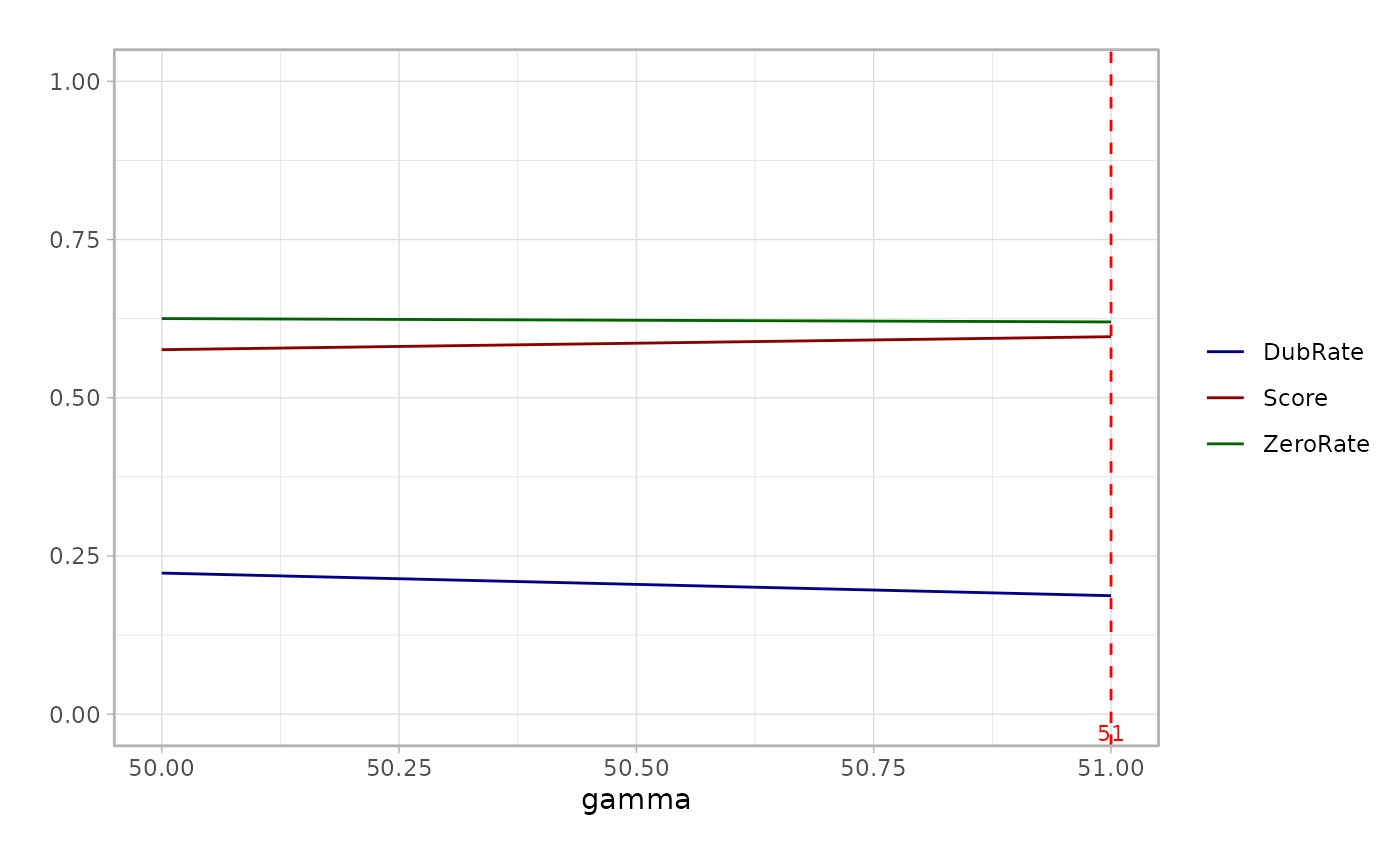
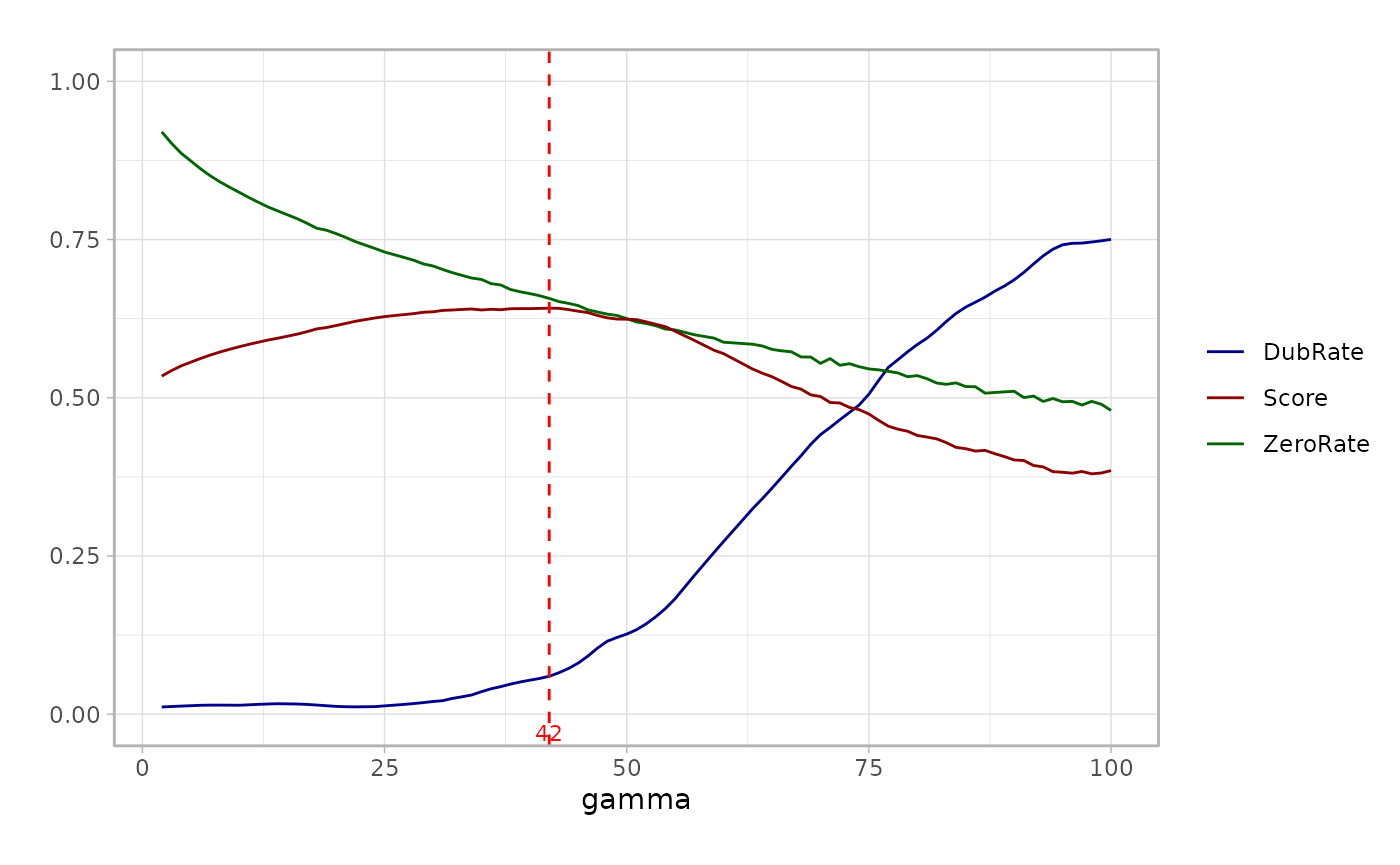
Deploying to gh-pages from @ JSB-UCLA/mcRigor@9963490745b8a02b5c7d042b25420d82449c25fb 🚀

diff --git a/articles/mcRigor-optimize.html b/articles/mcRigor-optimize.html
@@ -34,6 +34,7 @@
   <button class="nav-link dropdown-toggle" type="button" id="dropdown-articles" data-bs-toggle="dropdown" aria-expanded="false" aria-haspopup="true">Articles</button>
   <ul class="dropdown-menu" aria-labelledby="dropdown-articles">
 <li><a class="dropdown-item" href="../articles/mcRigor-detect-dubmc.html">Functionality 1: detect dubious metacells for a given metacell partition</a></li>
+    <li><a class="dropdown-item" href="../articles/mcRigor-mc-method.html">Implementing metacell partitioning methods</a></li>
     <li><a class="dropdown-item" href="../articles/mcRigor-optimize.html">Functionality 2: optimize metacell partitioning</a></li>
   </ul>
 </li>
@@ -75,8 +76,9 @@
 <h2 id="introduction">Introduction<a class="anchor" aria-label="anchor" href="#introduction"></a>
 </h2>
 <p>In this tutorial, we will show how to use mcRigor to evaluate each
-metacell partition and select the optimal granularity level for a
-specific metacell partitioning method. Note that granularity level,
+metacell partition and select the <strong>optimal granularity
+level</strong> for a specific metacell partitioning method. Note that
+granularity level,
 <math display="inline" xmlns="http://www.w3.org/1998/Math/MathML"><semantics><mi>γ</mi><annotation encoding="application/x-tex">\gamma</annotation></semantics></math>,
 is a key parameter for metacell partitioning defined as the ratio of the
 number of single cells to the number of metacells, and decent selection
@@ -140,15 +142,19 @@ mcRigor package as an example.</p>
 metacell partition in <code>cell_membership</code> and select the
 optimal one among them.</p>
 <div class="sourceCode" id="cb4"><pre class="downlit sourceCode r">
-<code class="sourceCode R"><span><span class="va">optimize_res</span> <span class="op">=</span> <span class="fu"><a href="../reference/mcRigor_OPTIMIZE.html">mcRigor_OPTIMIZE</a></span><span class="op">(</span>obj_singlecell <span class="op">=</span> <span class="va">obj_singlecell</span>, cell_membership <span class="op">=</span> <span class="va">cell_membership</span><span class="op">[</span><span class="fu"><a href="https://rdrr.io/r/base/character.html" class="external-link">as.character</a></span><span class="op">(</span><span class="fu"><a href="https://rdrr.io/r/base/c.html" class="external-link">c</a></span><span class="op">(</span><span class="fl">50</span><span class="op">:</span><span class="fl">51</span><span class="op">)</span><span class="op">)</span><span class="op">]</span><span class="op">)</span></span></code></pre></div>
+<code class="sourceCode R"><span><span class="va">optimize_res</span> <span class="op">=</span> <span class="fu"><a href="../reference/mcRigor_OPTIMIZE.html">mcRigor_OPTIMIZE</a></span><span class="op">(</span>obj_singlecell <span class="op">=</span> <span class="va">obj_singlecell</span>, cell_membership <span class="op">=</span> <span class="va">cell_membership</span><span class="op">)</span></span></code></pre></div>
 <p>The evaluation scores for the provided metacell partitions are stored
 in the <code>score</code> field of the output <code>optimize_res</code>,
 and we can draw the line plot of the evaluation scores.</p>
 <div class="sourceCode" id="cb5"><pre class="downlit sourceCode r">
 <code class="sourceCode R"><span><span class="fu"><a href="https://rdrr.io/r/utils/head.html" class="external-link">head</a></span><span class="op">(</span><span class="va">optimize_res</span><span class="op">$</span><span class="va">scores</span><span class="op">)</span></span>
-<span><span class="co">#&gt;   gamma   DubRate  ZeroRate     Score</span></span>
-<span><span class="co">#&gt; 1    50 0.2229851 0.6251194 0.5759478</span></span>
-<span><span class="co">#&gt; 2    51 0.1872388 0.6198080 0.5964766</span></span>
+<span><span class="co">#&gt;   gamma    DubRate  ZeroRate     Score</span></span>
+<span><span class="co">#&gt; 1     2 0.01137782 0.9201214 0.5342504</span></span>
+<span><span class="co">#&gt; 2     3 0.01211045 0.9021871 0.5428512</span></span>
+<span><span class="co">#&gt; 3     4 0.01278217 0.8864460 0.5503859</span></span>
+<span><span class="co">#&gt; 4     6 0.01406138 0.8618650 0.5620368</span></span>
+<span><span class="co">#&gt; 5     7 0.01430996 0.8507913 0.5674494</span></span>
+<span><span class="co">#&gt; 6     8 0.01433865 0.8412219 0.5722197</span></span>
 <span><span class="va">optimize_res</span><span class="op">$</span><span class="va">optim_plot</span></span></code></pre></div>
 <p><img src="mcRigor-optimize_files/figure-html/unnamed-chunk-5-1.png" width="700">
 The output <code>optimize_res</code> contains the optimal granularity
@@ -160,7 +166,7 @@ under the the optimal granularity level (<code>opt_metacell</code>).</p>
 <code class="sourceCode R"><span><span class="va">opt_metacell</span> <span class="op">=</span> <span class="va">optimize_res</span><span class="op">$</span><span class="va">opt_metacell</span></span>
 <span><span class="va">opt_metacell</span></span>
 <span><span class="co">#&gt; An object of class Seurat </span></span>
-<span><span class="co">#&gt; 2000 features across 263 samples within 1 assay </span></span>
+<span><span class="co">#&gt; 2000 features across 319 samples within 1 assay </span></span>
 <span><span class="co">#&gt; Active assay: RNA (2000 features, 0 variable features)</span></span>
 <span><span class="co">#&gt;  2 layers present: counts, data</span></span></code></pre></div>
 <p>Note the optimal metacell partition may still contain dubious

diff --git a/articles/mcRigor-mc-method.html b/articles/mcRigor-mc-method.html
@@ -1,0 +1,94 @@
+<!DOCTYPE html>
+<!-- Generated by pkgdown: do not edit by hand --><html lang="en">
+<head>
+<meta http-equiv="Content-Type" content="text/html; charset=UTF-8">
+<meta charset="utf-8">
+<meta http-equiv="X-UA-Compatible" content="IE=edge">
+<meta name="viewport" content="width=device-width, initial-scale=1, shrink-to-fit=no">
+<title>Implementing metacell partitioning methods • mcRigor</title>
+<script src="../deps/jquery-3.6.0/jquery-3.6.0.min.js"></script><meta name="viewport" content="width=device-width, initial-scale=1, shrink-to-fit=no">
+<link href="../deps/bootstrap-5.3.1/bootstrap.min.css" rel="stylesheet">
+<script src="../deps/bootstrap-5.3.1/bootstrap.bundle.min.js"></script><link href="../deps/font-awesome-6.5.2/css/all.min.css" rel="stylesheet">
+<link href="../deps/font-awesome-6.5.2/css/v4-shims.min.css" rel="stylesheet">
+<script src="../deps/headroom-0.11.0/headroom.min.js"></script><script src="../deps/headroom-0.11.0/jQuery.headroom.min.js"></script><script src="../deps/bootstrap-toc-1.0.1/bootstrap-toc.min.js"></script><script src="../deps/clipboard.js-2.0.11/clipboard.min.js"></script><script src="../deps/search-1.0.0/autocomplete.jquery.min.js"></script><script src="../deps/search-1.0.0/fuse.min.js"></script><script src="../deps/search-1.0.0/mark.min.js"></script><!-- pkgdown --><script src="../pkgdown.js"></script><meta property="og:title" content="Implementing metacell partitioning methods">
+</head>
+<body>
+    <a href="#main" class="visually-hidden-focusable">Skip to contents</a>
+
+
+    <nav class="navbar navbar-expand-lg fixed-top bg-light" data-bs-theme="light" aria-label="Site navigation"><div class="container">
+
+    <a class="navbar-brand me-2" href="../index.html">mcRigor</a>
+
+    <small class="nav-text text-muted me-auto" data-bs-toggle="tooltip" data-bs-placement="bottom" title="">1.0</small>
+
+
+    <button class="navbar-toggler" type="button" data-bs-toggle="collapse" data-bs-target="#navbar" aria-controls="navbar" aria-expanded="false" aria-label="Toggle navigation">
+      <span class="navbar-toggler-icon"></span>
+    </button>
+
+    <div id="navbar" class="collapse navbar-collapse ms-3">
+      <ul class="navbar-nav me-auto">
+<li class="nav-item"><a class="nav-link" href="../reference/index.html">Reference</a></li>
+<li class="active nav-item dropdown">
+  <button class="nav-link dropdown-toggle" type="button" id="dropdown-articles" data-bs-toggle="dropdown" aria-expanded="false" aria-haspopup="true">Articles</button>
+  <ul class="dropdown-menu" aria-labelledby="dropdown-articles">
+<li><a class="dropdown-item" href="../articles/mcRigor-detect-dubmc.html">Functionality 1: detect dubious metacells for a given metacell partition</a></li>
+    <li><a class="dropdown-item" href="../articles/mcRigor-mc-method.html">Implementing metacell partitioning methods</a></li>
+    <li><a class="dropdown-item" href="../articles/mcRigor-optimize.html">Functionality 2: optimize metacell partitioning</a></li>
+  </ul>
+</li>
+      </ul>
+<ul class="navbar-nav">
+<li class="nav-item"><form class="form-inline" role="search">
+ <input class="form-control" type="search" name="search-input" id="search-input" autocomplete="off" aria-label="Search site" placeholder="Search for" data-search-index="../search.json">
+</form></li>
+      </ul>
+</div>
+
+
+  </div>
+</nav><div class="container template-article">
+
+
+
+
+<div class="row">
+  <main id="main" class="col-md-9"><div class="page-header">
+
+      <h1>Implementing metacell partitioning methods</h1>
+                        <h4 data-toc-skip class="author">Pan Liu</h4>
+            
+            <h4 data-toc-skip class="date">25 November 2024</h4>
+      
+
+      <div class="d-none name"><code>mcRigor-mc-method.Rmd</code></div>
+    </div>
+
+    
+    
+<p><strong>This page is under construction. Please check back
+soon!</strong></p>
+  </main><aside class="col-md-3"><nav id="toc" aria-label="Table of contents"><h2>On this page</h2>
+    </nav></aside>
+</div>
+
+
+
+    <footer><div class="pkgdown-footer-left">
+  <p>Developed by Pan Liu.</p>
+</div>
+
+<div class="pkgdown-footer-right">
+  <p>Site built with <a href="https://pkgdown.r-lib.org/" class="external-link">pkgdown</a> 2.1.1.</p>
+</div>
+
+    </footer>
+</div>
+
+
+
+
+
+  </body>
+</html>

diff --git a/index.html b/index.html
@@ -36,6 +36,7 @@
   <button class="nav-link dropdown-toggle" type="button" id="dropdown-articles" data-bs-toggle="dropdown" aria-expanded="false" aria-haspopup="true">Articles</button>
   <ul class="dropdown-menu" aria-labelledby="dropdown-articles">
 <li><a class="dropdown-item" href="articles/mcRigor-detect-dubmc.html">Functionality 1: detect dubious metacells for a given metacell partition</a></li>
+    <li><a class="dropdown-item" href="articles/mcRigor-mc-method.html">Implementing metacell partitioning methods</a></li>
     <li><a class="dropdown-item" href="articles/mcRigor-optimize.html">Functionality 2: optimize metacell partitioning</a></li>
   </ul>
 </li>
@@ -55,7 +56,7 @@
 <div class="page-header"><h1 id="mcrigor">mcRigor<a class="anchor" aria-label="anchor" href="#mcrigor"></a>
 </h1></div>
 <p>The R package <strong>mcRigor</strong> is a statistical method to enhance the rigor of metacell partitioning in single-cell data analysis. It can be used as an add-on for any existing metacell partitioning methods for obtaining more reliable metacells. mcRigor has two main functionalities: 1) detecting dubious metacells, which are composed of heterogeneous single cells, for a given metacell partition, and 2) optimizing the hyperparameter of a metacell partitioning method. The core of mcRigor is a feature-correlation-based statistic that measures the heterogeneity of a metacell, with its null distribution derived from a double permutation scheme. The following figure illustrates the schematics of mcRigor for dubious metacell detection (a) and hyperparameter optimization (b).</p>
-<p><img src="reference/figures/mcRigor_illustration.png" width="600"></p>
+<p><img src="reference/figures/mcRigor_illustration.png" width="750"></p>
 <div class="section level2">
 <h2 id="installation">Installation<a name="installation-"></a>
 <a class="anchor" aria-label="anchor" href="#installation"></a>
@@ -109,16 +110,16 @@
 <span>                           color_field <span class="op">=</span> <span class="st">'celltype.l1'</span>,</span>
 <span>                           dub_mc_test.label <span class="op">=</span> <span class="cn">T</span>, test_stats <span class="op">=</span> <span class="va">optimize_res</span><span class="op">$</span><span class="va">TabMC</span>, Thre <span class="op">=</span> <span class="va">optimize_res</span><span class="op">$</span><span class="va">thre</span><span class="op">)</span></span>
 <span><span class="va">plot</span></span></code></pre></div>
-<p><img src="reference/figures/mcRigor_projection.png" width="600"></p>
+<p><img src="reference/figures/mcRigor_projection.png" width="750"></p>
 </div>
 <div class="section level2">
 <h2 id="tutorials">Tutorials<a name="tutorials"></a>
 <a class="anchor" aria-label="anchor" href="#tutorials"></a>
 </h2>
-<p>For all detailed tutorials, please check the <a href="https://JSB-UCLA.github.io/mcRigor/index.html" class="external-link">website</a>. The tutorials will demonstrate the two main functionalities of <strong>mcRigor</strong> on a semi-synthetic dataset of bone marrow mononuclear cells measured by CITE-seq.</p>
+<p>For all detailed tutorials, please check the <a href="https://jsb-ucla.github.io/mcRigor/index.html">website</a>. The tutorials will demonstrate the two main functionalities of <strong>mcRigor</strong> on a semi-synthetic dataset of bone marrow mononuclear cells measured by CITE-seq.</p>
 <ul>
-<li><a href="https://JSB-UCLA.github.io/mcRigor/articles/mcRigor-detect-dubmc.html" class="external-link">Functionality 1: detect dubious metacells for a given metacell partition</a></li>
-<li><a href="https://JSB-UCLA.github.io/mcRigor/articles/mcRigor-optimize.html" class="external-link">Functionality 2: optimize metacell partitioning</a></li>
+<li><a href="https://jsb-ucla.github.io/mcRigor/articles/mcRigor-detect-dubmc.html">Functionality 1: detect dubious metacells for a given metacell partition</a></li>
+<li><a href="https://jsb-ucla.github.io/mcRigor/articles/mcRigor-optimize.html">Functionality 2: optimize metacell partitioning</a></li>
 </ul>
 </div>
 <div class="section level2">

diff --git a/articles/mcRigor-detect-dubmc.html b/articles/mcRigor-detect-dubmc.html
@@ -34,6 +34,7 @@
   <button class="nav-link dropdown-toggle" type="button" id="dropdown-articles" data-bs-toggle="dropdown" aria-expanded="false" aria-haspopup="true">Articles</button>
   <ul class="dropdown-menu" aria-labelledby="dropdown-articles">
 <li><a class="dropdown-item" href="../articles/mcRigor-detect-dubmc.html">Functionality 1: detect dubious metacells for a given metacell partition</a></li>
+    <li><a class="dropdown-item" href="../articles/mcRigor-mc-method.html">Implementing metacell partitioning methods</a></li>
     <li><a class="dropdown-item" href="../articles/mcRigor-optimize.html">Functionality 2: optimize metacell partitioning</a></li>
   </ul>
 </li>
@@ -147,7 +148,7 @@ well as the metadata of the Seurat object with name
 <code class="sourceCode R"><span><span class="fu"><a href="https://rdrr.io/r/base/table.html" class="external-link">table</a></span><span class="op">(</span><span class="va">detect_res</span><span class="op">$</span><span class="va">mc_res</span><span class="op">)</span></span>
 <span><span class="co">#&gt; </span></span>
 <span><span class="co">#&gt;     dubious trustworthy </span></span>
-<span><span class="co">#&gt;          63         205</span></span>
+<span><span class="co">#&gt;          56         212</span></span>
 <span><span class="va">obj_metacell</span> <span class="op">=</span> <span class="va">detect_res</span><span class="op">$</span><span class="va">obj_metacell</span></span>
 <span><span class="fu"><a href="https://rdrr.io/r/utils/head.html" class="external-link">head</a></span><span class="op">(</span><span class="va">obj_metacell</span><span class="op">$</span><span class="va">mcRigor</span><span class="op">)</span></span>
 <span><span class="co">#&gt;   mc50-allcells-SEACell-0   mc50-allcells-SEACell-1  mc50-allcells-SEACell-10 </span></span>

diff --git a/articles/index.html b/articles/index.html
@@ -19,6 +19,7 @@
 <li class="nav-item dropdown">
   <button class="nav-link dropdown-toggle" type="button" id="dropdown-articles" data-bs-toggle="dropdown" aria-expanded="false" aria-haspopup="true">Articles</button>
   <ul class="dropdown-menu" aria-labelledby="dropdown-articles"><li><a class="dropdown-item" href="../articles/mcRigor-detect-dubmc.html">Functionality 1: detect dubious metacells for a given metacell partition</a></li>
+    <li><a class="dropdown-item" href="../articles/mcRigor-mc-method.html">Implementing metacell partitioning methods</a></li>
     <li><a class="dropdown-item" href="../articles/mcRigor-optimize.html">Functionality 2: optimize metacell partitioning</a></li>
   </ul></li>
       </ul><ul class="navbar-nav"><li class="nav-item"><form class="form-inline" role="search">
@@ -39,6 +40,8 @@
       <div class="section-desc"></div>
 
       <dl><dt><a href="mcRigor-detect-dubmc.html">Functionality 1: detect dubious metacells for a given metacell partition</a></dt>
+        <dd>
+        </dd><dt><a href="mcRigor-mc-method.html">Implementing metacell partitioning methods</a></dt>
         <dd>
         </dd><dt><a href="mcRigor-optimize.html">Functionality 2: optimize metacell partitioning</a></dt>
         <dd>

diff --git a/reference/index.html b/reference/index.html
@@ -19,6 +19,7 @@
 <li class="nav-item dropdown">
   <button class="nav-link dropdown-toggle" type="button" id="dropdown-articles" data-bs-toggle="dropdown" aria-expanded="false" aria-haspopup="true">Articles</button>
   <ul class="dropdown-menu" aria-labelledby="dropdown-articles"><li><a class="dropdown-item" href="../articles/mcRigor-detect-dubmc.html">Functionality 1: detect dubious metacells for a given metacell partition</a></li>
+    <li><a class="dropdown-item" href="../articles/mcRigor-mc-method.html">Implementing metacell partitioning methods</a></li>
     <li><a class="dropdown-item" href="../articles/mcRigor-optimize.html">Functionality 2: optimize metacell partitioning</a></li>
   </ul></li>
       </ul><ul class="navbar-nav"><li class="nav-item"><form class="form-inline" role="search">

diff --git a/reference/mcRigor-package.html b/reference/mcRigor-package.html
@@ -19,6 +19,7 @@
 <li class="nav-item dropdown">
   <button class="nav-link dropdown-toggle" type="button" id="dropdown-articles" data-bs-toggle="dropdown" aria-expanded="false" aria-haspopup="true">Articles</button>
   <ul class="dropdown-menu" aria-labelledby="dropdown-articles"><li><a class="dropdown-item" href="../articles/mcRigor-detect-dubmc.html">Functionality 1: detect dubious metacells for a given metacell partition</a></li>
+    <li><a class="dropdown-item" href="../articles/mcRigor-mc-method.html">Implementing metacell partitioning methods</a></li>
     <li><a class="dropdown-item" href="../articles/mcRigor-optimize.html">Functionality 2: optimize metacell partitioning</a></li>
   </ul></li>
       </ul><ul class="navbar-nav"><li class="nav-item"><form class="form-inline" role="search">

diff --git a/reference/mcRigor_DETECT.html b/reference/mcRigor_DETECT.html
@@ -19,6 +19,7 @@
 <li class="nav-item dropdown">
   <button class="nav-link dropdown-toggle" type="button" id="dropdown-articles" data-bs-toggle="dropdown" aria-expanded="false" aria-haspopup="true">Articles</button>
   <ul class="dropdown-menu" aria-labelledby="dropdown-articles"><li><a class="dropdown-item" href="../articles/mcRigor-detect-dubmc.html">Functionality 1: detect dubious metacells for a given metacell partition</a></li>
+    <li><a class="dropdown-item" href="../articles/mcRigor-mc-method.html">Implementing metacell partitioning methods</a></li>
     <li><a class="dropdown-item" href="../articles/mcRigor-optimize.html">Functionality 2: optimize metacell partitioning</a></li>
   </ul></li>
       </ul><ul class="navbar-nav"><li class="nav-item"><form class="form-inline" role="search">

diff --git a/reference/mcRigor_OPTIMIZE.html b/reference/mcRigor_OPTIMIZE.html
@@ -19,6 +19,7 @@
 <li class="nav-item dropdown">
   <button class="nav-link dropdown-toggle" type="button" id="dropdown-articles" data-bs-toggle="dropdown" aria-expanded="false" aria-haspopup="true">Articles</button>
   <ul class="dropdown-menu" aria-labelledby="dropdown-articles"><li><a class="dropdown-item" href="../articles/mcRigor-detect-dubmc.html">Functionality 1: detect dubious metacells for a given metacell partition</a></li>
+    <li><a class="dropdown-item" href="../articles/mcRigor-mc-method.html">Implementing metacell partitioning methods</a></li>
     <li><a class="dropdown-item" href="../articles/mcRigor-optimize.html">Functionality 2: optimize metacell partitioning</a></li>
   </ul></li>
       </ul><ul class="navbar-nav"><li class="nav-item"><form class="form-inline" role="search">

diff --git a/reference/mcRigor_buildmc.html b/reference/mcRigor_buildmc.html
@@ -19,6 +19,7 @@
 <li class="nav-item dropdown">
   <button class="nav-link dropdown-toggle" type="button" id="dropdown-articles" data-bs-toggle="dropdown" aria-expanded="false" aria-haspopup="true">Articles</button>
   <ul class="dropdown-menu" aria-labelledby="dropdown-articles"><li><a class="dropdown-item" href="../articles/mcRigor-detect-dubmc.html">Functionality 1: detect dubious metacells for a given metacell partition</a></li>
+    <li><a class="dropdown-item" href="../articles/mcRigor-mc-method.html">Implementing metacell partitioning methods</a></li>
     <li><a class="dropdown-item" href="../articles/mcRigor-optimize.html">Functionality 2: optimize metacell partitioning</a></li>
   </ul></li>
       </ul><ul class="navbar-nav"><li class="nav-item"><form class="form-inline" role="search">

diff --git a/reference/mcRigor_covariate.html b/reference/mcRigor_covariate.html
@@ -19,6 +19,7 @@
 <li class="nav-item dropdown">
   <button class="nav-link dropdown-toggle" type="button" id="dropdown-articles" data-bs-toggle="dropdown" aria-expanded="false" aria-haspopup="true">Articles</button>
   <ul class="dropdown-menu" aria-labelledby="dropdown-articles"><li><a class="dropdown-item" href="../articles/mcRigor-detect-dubmc.html">Functionality 1: detect dubious metacells for a given metacell partition</a></li>
+    <li><a class="dropdown-item" href="../articles/mcRigor-mc-method.html">Implementing metacell partitioning methods</a></li>
     <li><a class="dropdown-item" href="../articles/mcRigor-optimize.html">Functionality 2: optimize metacell partitioning</a></li>
   </ul></li>
       </ul><ul class="navbar-nav"><li class="nav-item"><form class="form-inline" role="search">

diff --git a/reference/mcRigor_projection.html b/reference/mcRigor_projection.html
@@ -19,6 +19,7 @@
 <li class="nav-item dropdown">
   <button class="nav-link dropdown-toggle" type="button" id="dropdown-articles" data-bs-toggle="dropdown" aria-expanded="false" aria-haspopup="true">Articles</button>
   <ul class="dropdown-menu" aria-labelledby="dropdown-articles"><li><a class="dropdown-item" href="../articles/mcRigor-detect-dubmc.html">Functionality 1: detect dubious metacells for a given metacell partition</a></li>
+    <li><a class="dropdown-item" href="../articles/mcRigor-mc-method.html">Implementing metacell partitioning methods</a></li>
     <li><a class="dropdown-item" href="../articles/mcRigor-optimize.html">Functionality 2: optimize metacell partitioning</a></li>
   </ul></li>
       </ul><ul class="navbar-nav"><li class="nav-item"><form class="form-inline" role="search">
